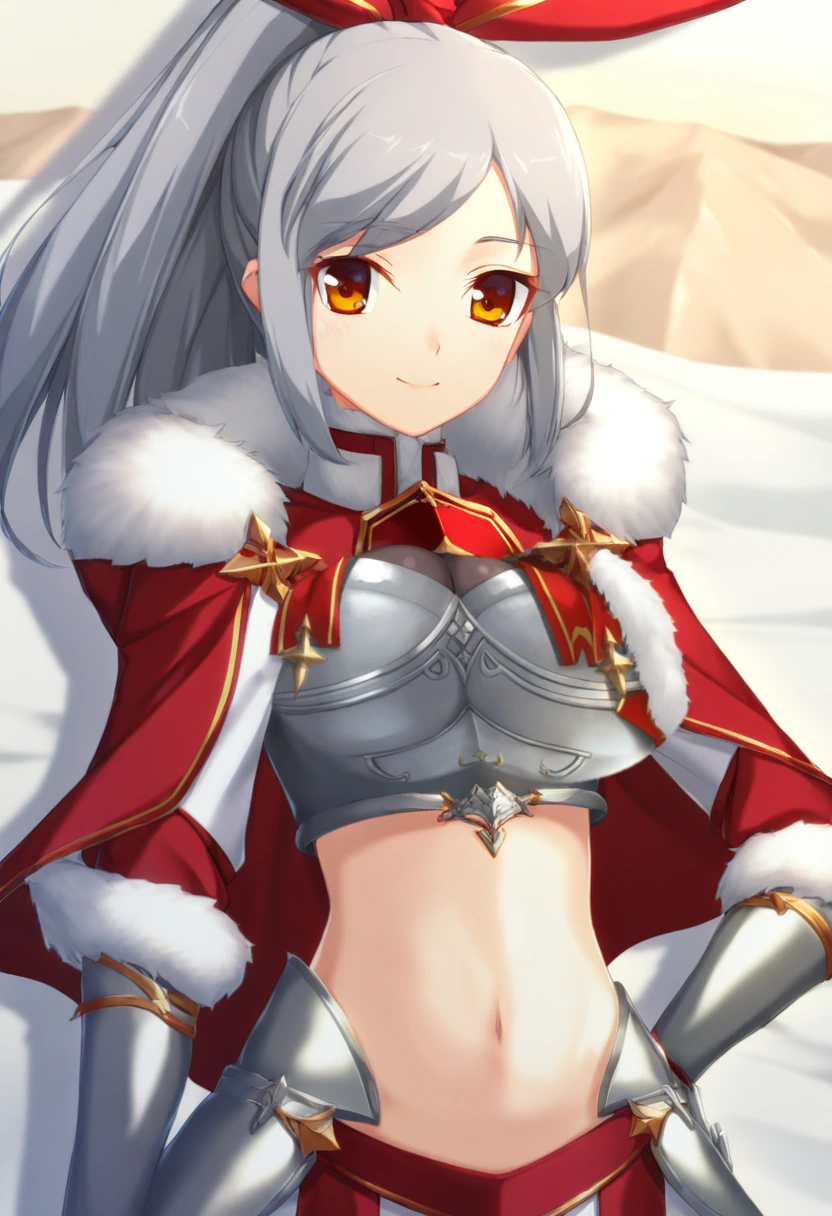
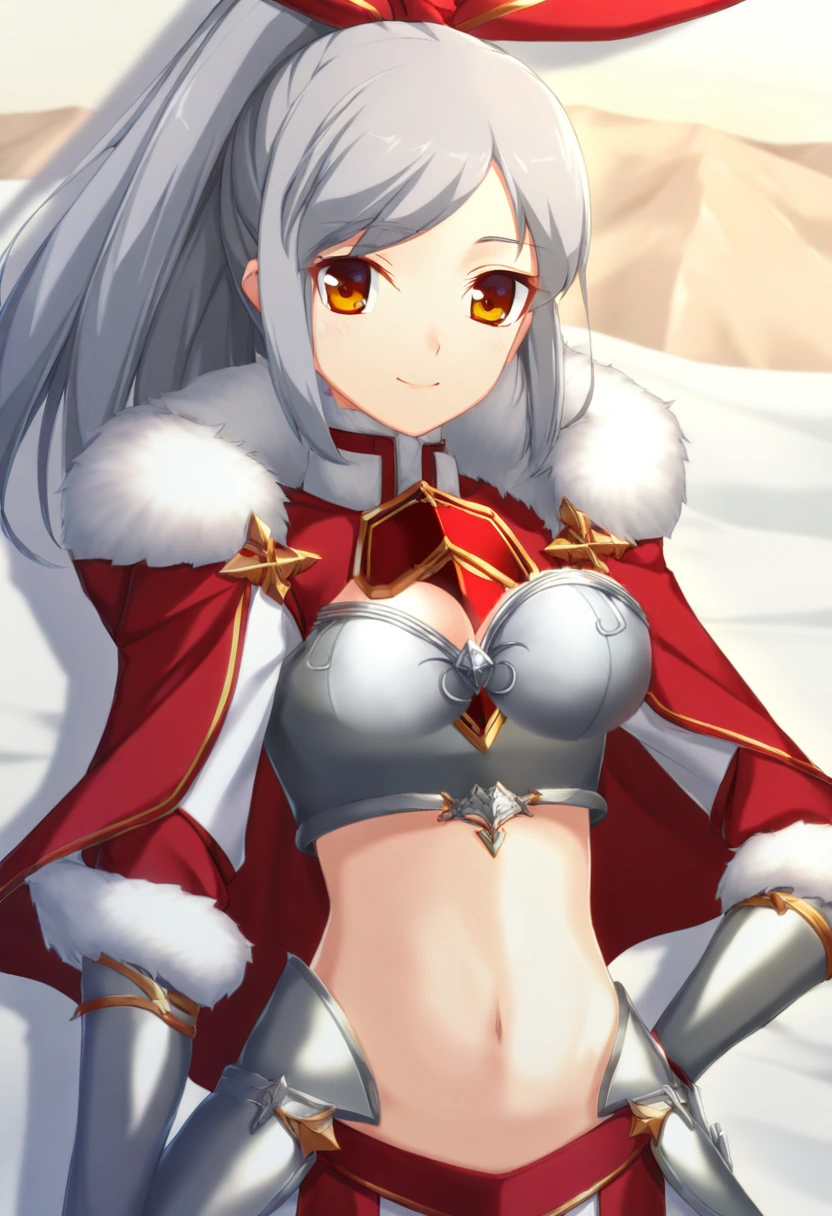
Ma Teng: per-breast chest masks, breasts move independently
Claude-Session: https://claude.ai/code/session_017CQhY3FLdH51zJppLF11JD

Changed region(s): [[0.3125, 0.4375, 0.8438, 0.6562]]

diff --git a/game/public/js/layered.js b/game/public/js/layered.js
@@ -16,20 +16,20 @@
     },
     // 貂蟬 v2（2026-11-19 開發用 Colab＋Illustrious-XL 自己生的，Jay 選圖）：只有胸部、平胸底層、閉眼三層
     mateng_a6: {
-      w: 832, h: 1216, link: 1,
-      art: [[0.4832, 0.4975, 0.1418, 0.0888], [0.6418, 0.4975, 0.1418, 0.0888]],   // 馬騰候選 A6（2026-11-19，胸部單獨生成）
+      w: 832, h: 1216,
+      art: [[0.4760, 0.5033, 0.0962, 0.0625], [0.6490, 0.5033, 0.0962, 0.0625]],   // 馬騰候選 A6（2026-11-20：每顆胸部各自一個圓、左右分開動）
     },
     mateng_b1: {
-      w: 832, h: 1216, link: 1,
-      art: [[0.4808, 0.5428, 0.1683, 0.1003], [0.6731, 0.5428, 0.1683, 0.1003]],   // 馬騰候選 B1（2026-11-19，胸部單獨生成）
+      w: 832, h: 1216,
+      art: [[0.4760, 0.5362, 0.1106, 0.0724], [0.6827, 0.5362, 0.1106, 0.0724]],   // 馬騰候選 B1（2026-11-20：每顆胸部各自一個圓、左右分開動）
     },
     mateng_b2: {
-      w: 832, h: 1216, link: 1,
-      art: [[0.4062, 0.5222, 0.1683, 0.1053], [0.5986, 0.5222, 0.1683, 0.1053]],   // 馬騰候選 B2（2026-11-19，胸部單獨生成）
+      w: 832, h: 1216,
+      art: [[0.3966, 0.5263, 0.1130, 0.0740], [0.6082, 0.5263, 0.1130, 0.0740]],   // 馬騰候選 B2（2026-11-20：每顆胸部各自一個圓、左右分開動）
     },
     mateng_b5: {
-      w: 832, h: 1216, link: 1,
-      art: [[0.3377, 0.5016, 0.1538, 0.0946], [0.5156, 0.5016, 0.1538, 0.0946]],   // 馬騰候選 B5（2026-11-19，胸部單獨生成）
+      w: 832, h: 1216,
+      art: [[0.3305, 0.5033, 0.1034, 0.0674], [0.5228, 0.5033, 0.1034, 0.0674]],   // 馬騰候選 B5（2026-11-20：每顆胸部各自一個圓、左右分開動）
     },
     diaochan_v4: {
       w: 832, h: 1216, link: 1,
@@ -122,7 +122,7 @@
       else { cc.globalCompositeOperation = "destination-in"; cc.drawImage(m, 0, 0); }
       tex = { base: mkTex(b), chest: mkTex(c), blink: mkTex(imgs.blink) }; if (imgs.acc) tex.acc = mkTex(imgs.acc); if (imgs.hair) tex.hair = mkTex(imgs.hair);
     }
-    names.forEach(function (n) { var im = new Image(); im.onload = function () { imgs[n] = im; if (--left === 0) compose(); }; im.src = base + (R.pre || id + "_") + n + ".webp?v=18"; });   // 改圖要換這個數字，不然手機會用到舊圖
+    names.forEach(function (n) { var im = new Image(); im.onload = function () { imgs[n] = im; if (--left === 0) compose(); }; im.src = base + (R.pre || id + "_") + n + ".webp?v=19"; });   // 改圖要換這個數字，不然手機會用到舊圖
 
     var P = { K: 38, C: 3.0, BREATH: 0.0035, BT: 3.8, LIFT: 0.016, MAX: 0.042, RIM: 0.28, amp: opt.amp == null ? 1 : opt.amp };   // MAX 是胸部中心的最大位移；邊緣只動 RIM 倍（約 0.28）
     var c = [{ x: 0, y: 0, vx: 0, vy: 0 }, { x: 0, y: 0, vx: 0, vy: 0 }], ear = [{ a: 0, v: 0 }, { a: 0, v: 0 }], hair = { x: 0, v: 0 };

diff --git a/game/public/tool/sunquan.html b/game/public/tool/sunquan.html
@@ -17,7 +17,7 @@ input[type=range]{flex:1}
 <div class="row">淡化<input id="fe" type="range" min="0" max="40" step="2" value="6"><span id="fv">6</span></div>
 <div class="row">邊緣<input id="rim" type="range" min="0" max="1" step="0.05" value="0.28"><span id="rv">0.28</span></div>
 <div class="row">幅度<input id="amp" type="range" min="0.3" max="1.3" step="0.1" value="1"><span id="av">1.0</span><button id="poke">晃一下</button></div></div></div>
-<script src="../js/layered.js?v=1119l"></script>
+<script src="../js/layered.js?v=1120a"></script>
 <script>
 var ID=new URLSearchParams(location.search).get("id")||"sunquan_ur";if(ID!=="sunquan_ur"){document.title="分層立繪試作";document.querySelector("#bar b").textContent=({diaochan_v2:"貂蟬",diaochan_v3:"貂蟬 v3",diaochan_v4:"貂蟬 v4",mateng_a6:"馬騰 A6",mateng_b1:"馬騰 B1",mateng_b2:"馬騰 B2",mateng_b5:"馬騰 B5"})[ID]+"｜分層立繪試作";document.querySelector("#bar .row").style.display="none";document.getElementById("stage").style.background="#1a1020"}
 var stage=document.getElementById("stage"),amp=document.getElementById("amp"),ol=null,L=null;

diff --git a/game/public/index.html b/game/public/index.html
@@ -56,7 +56,7 @@
 <script src="js/battle.js?v=1119a"></script>
 <script src="js/scene.js?v=1119a"></script>
 <script src="js/audio.js?v=1119a"></script>
-<script src="js/layered.js?v=1119l"></script>
+<script src="js/layered.js?v=1120a"></script>
 <script src="js/cardfx.js?v=1119a"></script>
 <script src="js/jiggle.js?v=1119a"></script>
 <script src="js/ui.js?v=1119a"></script>
